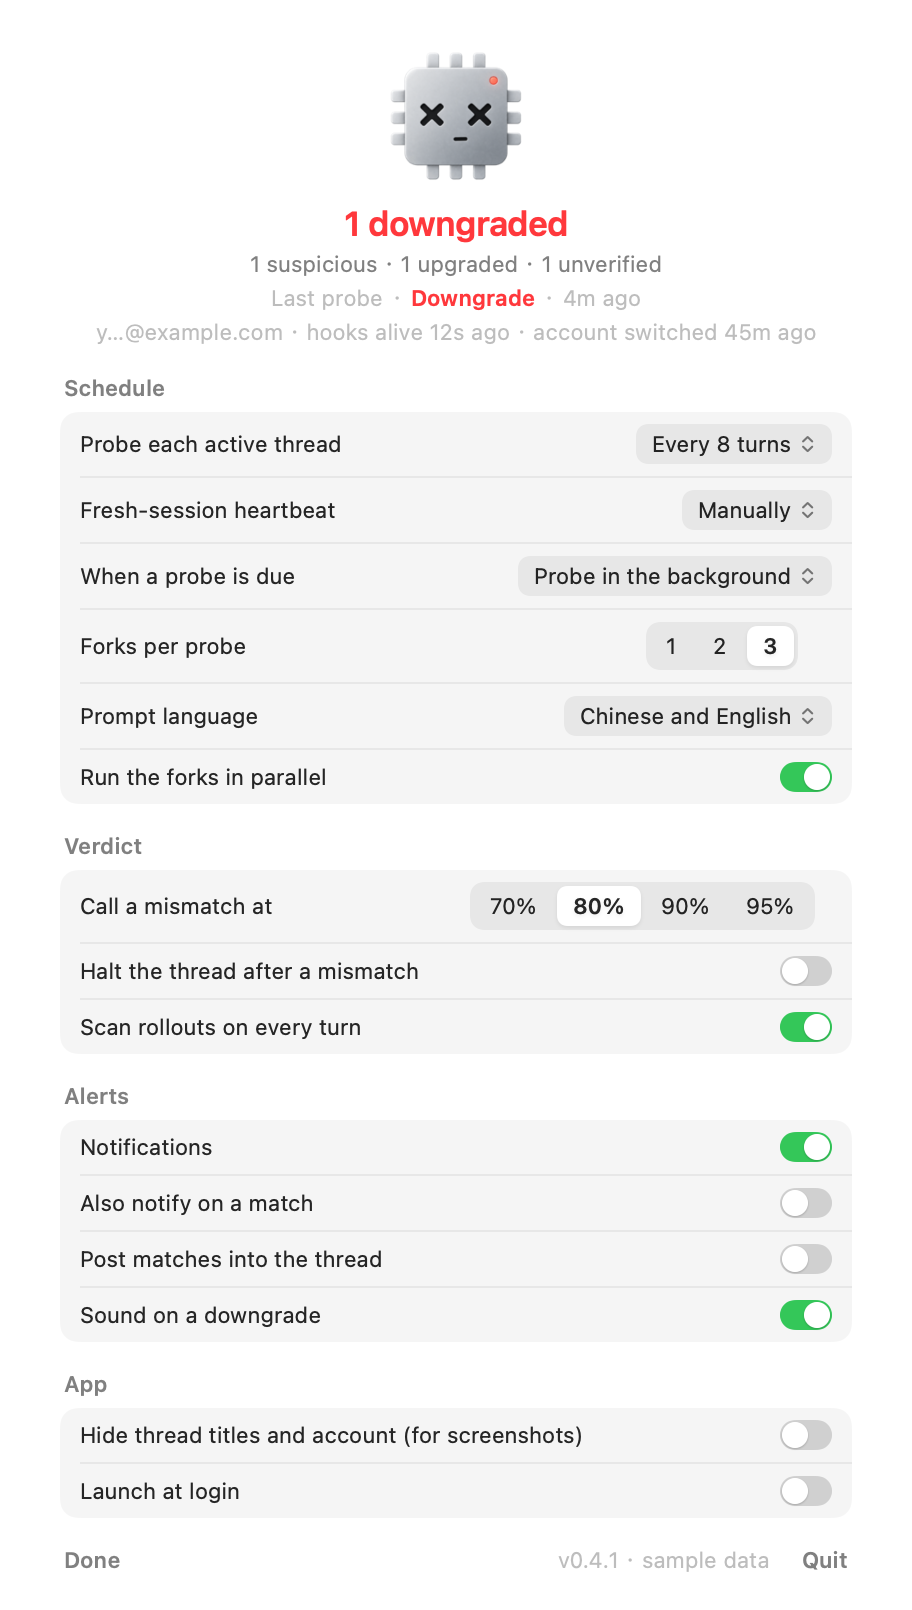
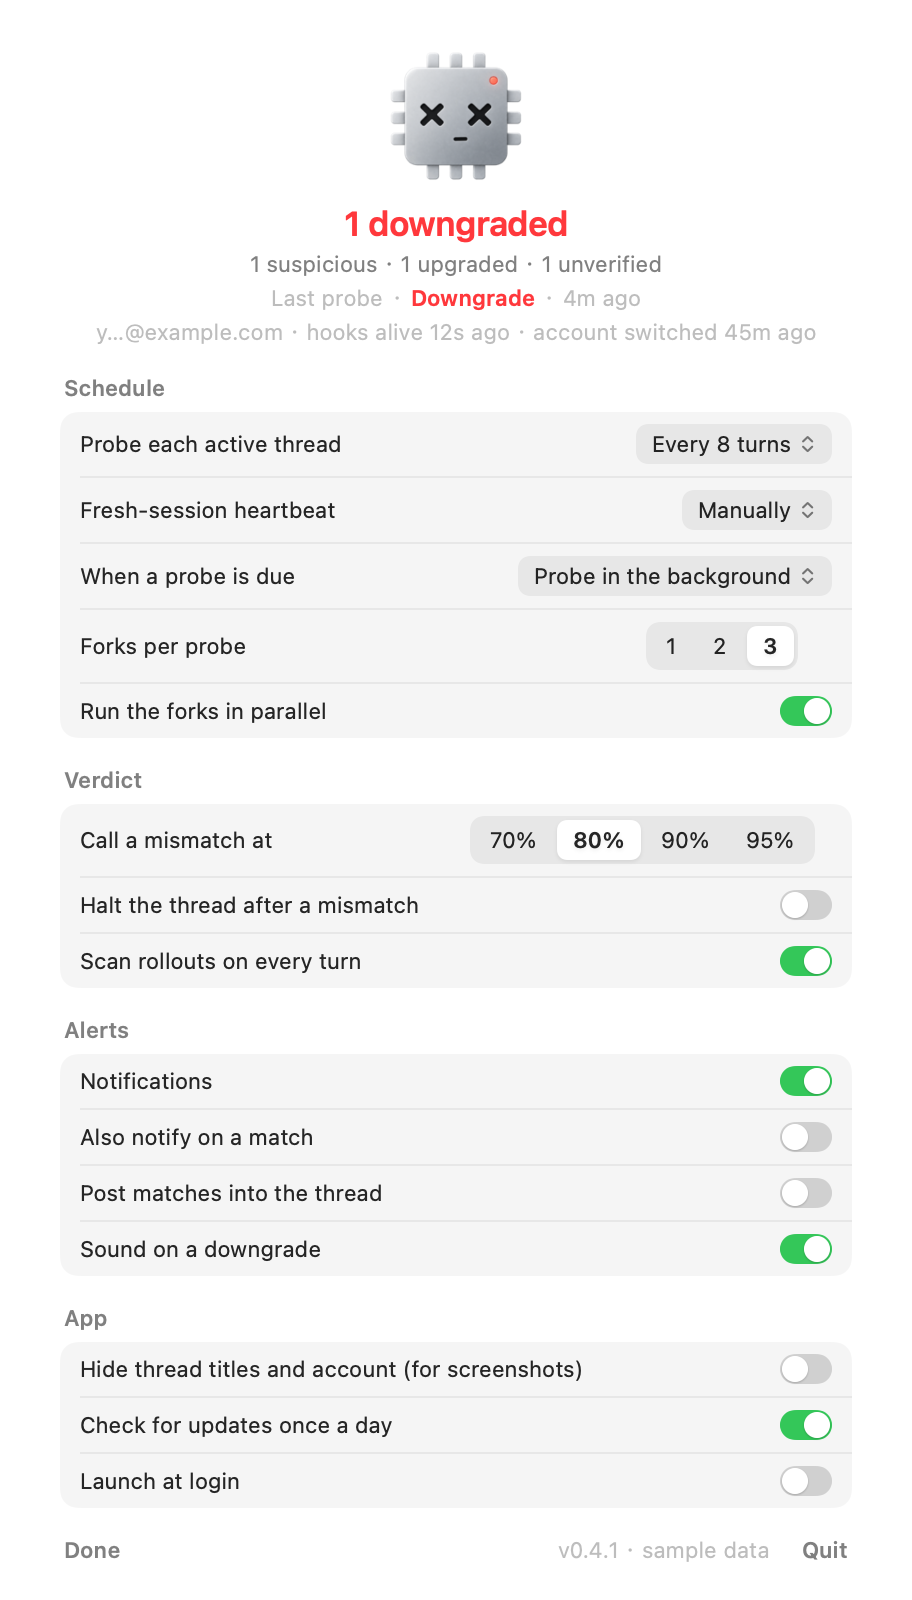
Daily release check with a footer link and one notification; Copy report moves to the context menu; no language row
- Update check: once a day the app asks GitHub for the latest release tag (nerfed update-check, a single request, off with check_updates) and the footer shows "vX.Y.Z is out · update" that opens the release page; one notification per new version. 404 while the repository is private is silent.
- Copy report sat in the middle of the row; it is now only in the row's right-click menu.
- Prompt language left Settings: the probes use ModelTrace's own zh and en task texts (verbatim, their default); other locales are unvalidated by the bank's author, so nothing to choose in the panel. The config key stays for the CLI.

diff --git a/macos/Sources/IsGPTNerfed/PanelView.swift b/macos/Sources/IsGPTNerfed/PanelView.swift
@@ -326,7 +326,7 @@ struct PanelView: View {
                             Text("Never probed · a new session, no thread context").font(Type.text).foregroundStyle(.secondary)
                         }
                     } report: {
-                        ReportLines(probes: history, evidence: [], failure: failure, reportText: snap?.globalReportText)
+                        ReportLines(probes: history, evidence: [], failure: failure)
                     }
                     Spacer(minLength: 8)
                     if !running {
@@ -349,7 +349,10 @@ struct PanelView: View {
         HStack(spacing: 16) {
             TextButton(title: showSettings ? "Done" : "Settings") { withAnimation(.snappy(duration: 0.25)) { showSettings.toggle() } }
             Spacer()
-            if let v = store.snapshot?.version {
+            if let u = store.snapshot?.update, u.available == true, let latest = u.latest {
+                TextButton(title: "v\(latest) is out · update", color: .primary) { store.openURL(u.url ?? "https://github.com/kiyoakii/is-gpt-nerfed/releases") }
+                    .help("A newer release is on GitHub. Download the zip and replace the app; the plugin inside updates with it.")
+            } else if let v = store.snapshot?.version {
                 Text("v\(v)" + (store.snapshot?.demo == true ? " · sample data" : "")).font(Type.text).foregroundStyle(.tertiary)
             }
             TextButton(title: "Quit") { NSApplication.shared.terminate(nil) }
@@ -396,13 +399,12 @@ struct SwapLines<Summary: View, Report: View>: View {
     }
 }
 
-/// The report: last verdict, fingerprint, earlier probes, evidence with what was reverted. Text only.
+/// The report: last verdict, fingerprint, earlier probes, evidence with what was reverted. Text only; Copy report is in the row's context menu.
 struct ReportLines: View {
     @Environment(Store.self) private var store
     let probes: [ProbeSummary]
     let evidence: [EvidenceInfo]
     var failure: ProbeSummary? = nil
-    let reportText: String?
 
     static func hasContent(probes: [ProbeSummary], evidence: [EvidenceInfo], failure: ProbeSummary? = nil) -> Bool {
         !probes.isEmpty || !evidence.isEmpty || failure != nil
@@ -442,12 +444,6 @@ struct ReportLines: View {
                 Text(e.text + (e.ago.map { " · \($0)" } ?? "") + (on ? "" : " · reverted"))
                     .foregroundStyle(on ? (e.severity == "hard" ? Color.red : (e.severity == "soft" ? Color.orange : Color.green)) : Color.secondary)
                     .lineLimit(2)
-            }
-            if let reportText {
-                HStack {
-                    Spacer()
-                    TextButton(title: "Copy report") { store.copy(reportText) }
-                }
             }
         }
         .font(Type.text)
@@ -535,7 +531,7 @@ struct ThreadRow: View {
                                 }
                             }
                         } report: {
-                            ReportLines(probes: history, evidence: thread.evidence ?? [], failure: thread.lastFailure, reportText: thread.reportText)
+                            ReportLines(probes: history, evidence: thread.evidence ?? [], failure: thread.lastFailure)
                         }
                     }
                 }

diff --git a/macos/Sources/IsGPTNerfed/SettingsView.swift b/macos/Sources/IsGPTNerfed/SettingsView.swift
@@ -13,7 +13,6 @@ struct SettingsView: View {
         ("manual", "Manually"), ("15m", "Every 15 minutes"), ("30m", "Every 30 minutes"), ("1h", "Every hour"), ("2h", "Every 2 hours"), ("6h", "Every 6 hours"),
     ]
     private let modes: [(String, String)] = [("auto", "Probe in the background"), ("nudge", "Only remind me")]
-    private let languages: [(String, String)] = [("zh,en", "Chinese and English"), ("zh", "Chinese"), ("en", "English")]
     private let confidences: [(Double, String)] = [(0.7, "70%"), (0.8, "80%"), (0.9, "90%"), (0.95, "95%")]
 
     var body: some View {
@@ -30,8 +29,6 @@ struct SettingsView: View {
                     segments(["1", "2", "3"], selected: String(cfg?.queries ?? 3)) { v in Task { await store.setConfig("queries", v) } }
                         .frame(width: 110)
                 }
-                RowSeparator()
-                row("Prompt language") { picker((cfg?.languages ?? ["zh", "en"]).joined(separator: ","), languages, key: "languages") }
                 RowSeparator()
                 row("Run the forks in parallel") { toggle("parallel", cfg?.parallel ?? true) }
             }
@@ -58,6 +55,8 @@ struct SettingsView: View {
             }
             Group(title: "App") {
                 row("Hide thread titles and account (for screenshots)") { toggle("hide_titles", cfg?.hideTitles ?? false) }
+                RowSeparator()
+                row("Check for updates once a day") { toggle("check_updates", cfg?.checkUpdates ?? true) }
                 RowSeparator()
                 row("Launch at login") {
                     if plain {

diff --git a/macos/Sources/IsGPTNerfed/Models.swift b/macos/Sources/IsGPTNerfed/Models.swift
@@ -11,6 +11,7 @@ struct Snapshot: Codable {
     var hooksLastEventAgo: String?
     var hooks: HooksInfo?
     var install: InstallInfo?
+    var update: UpdateInfo?
     var freshDue: Bool?
     var overall: Overall
     var defaultModel: String?
@@ -35,6 +36,17 @@ struct AccountInfo: Codable {
     var switchedAt: String?
     var switchedAgo: String?
     var previousLabel: String?
+}
+
+/// The daily release check (one request to GitHub for the latest tag; `nerfed update-check`).
+struct UpdateInfo: Codable {
+    var current: String?
+    var latest: String?
+    var available: Bool?
+    var url: String?
+    var checkedAgo: String?
+    var error: String?
+    var enabled: Bool?
 }
 
 /// Whether the plugin (bundled in this app or from a checkout) is registered with Codex.
@@ -88,6 +100,7 @@ struct DGCConfig: Codable {
     var confirmUncertain: Bool?
     var hideTitles: Bool?
     var freshFrequency: String?
+    var checkUpdates: Bool?
 }
 
 struct ThreadInfo: Codable, Identifiable {

diff --git a/macos/Sources/IsGPTNerfed/Store.swift b/macos/Sources/IsGPTNerfed/Store.swift
@@ -183,6 +183,10 @@ final class Store {
         appLog.notice("report copied to the clipboard")
     }
 
+    func openURL(_ s: String) {
+        if let u = URL(string: s) { NSWorkspace.shared.open(u) }
+    }
+
     func reveal(_ path: String) {
         NSWorkspace.shared.selectFile(nil, inFileViewerRootedAtPath: path)
     }

diff --git a/tests/test_dgc.py b/tests/test_dgc.py
@@ -15,6 +15,7 @@ from unittest import mock
 ROOT = os.path.dirname(os.path.dirname(os.path.abspath(__file__)))
 TMP = tempfile.mkdtemp(prefix="dgc-test-")
 os.environ["NERFED_HOME"] = os.path.join(TMP, "ledger")
+os.environ["NERFED_NO_UPDATE_CHECK"] = "1"  # tests never touch the network
 os.environ["CODEX_HOME"] = os.path.join(TMP, "codex-home")
 os.makedirs(os.environ["CODEX_HOME"], exist_ok=True)
 for var in ("CODEX_THREAD_ID", "CODEX_SESSION_ID", "CODEX_SANDBOX_NETWORK_DISABLED", "NERFED_PROBE_PROCESS"):
@@ -641,6 +642,23 @@ class SnapshotReportTests(unittest.TestCase):
         self.assertEqual(after, before, "the SessionStart hook must not crash")
         events = [e for e in dgc.iter_jsonl(os.path.join(dgc.NERFED_HOME, "log.jsonl")) if e.get("kind") == "session_start"]
         self.assertTrue(events and events[-1].get("sid") == "start-thread-1" and events[-1].get("session_kind") == "main")
+
+    def test_update_check_status_and_versions(self):
+        self.assertEqual(dgc.version_tuple("v0.4.2"), (0, 4, 2))
+        self.assertGreater(dgc.version_tuple("0.10.0"), dgc.version_tuple("0.9.9"))
+        self.assertEqual(dgc.version_tuple(None), (0,))
+        dgc.write_json(dgc.UPDATE_PATH, {"checked": dgc.iso(), "latest": "99.0.0", "url": "https://example.test/rel", "error": None})
+        u = dgc.update_status({"check_updates": True})
+        self.assertTrue(u["available"])
+        self.assertEqual((u["latest"], u["url"], u["current"]), ("99.0.0", "https://example.test/rel", dgc.VERSION))
+        dgc.write_json(dgc.UPDATE_PATH, {"checked": dgc.iso(), "latest": dgc.VERSION, "error": "HTTP 404"})
+        u = dgc.update_status({"check_updates": False})
+        self.assertFalse(u["available"])
+        self.assertFalse(u["enabled"])
+        snap = json.loads(run_cli(["snapshot", "--json"])[1])
+        self.assertIn("update", snap)
+        self.assertFalse(snap["update"]["available"])
+        os.remove(dgc.UPDATE_PATH)
 
     def test_upgrade_shows_as_good_news(self):
         snap = json.loads(run_cli(["snapshot", "--json", "--demo"])[1])

diff --git a/README.md b/README.md
@@ -52,7 +52,8 @@ Match is silent.
 
 **App, macOS 26.** Download the zip from [Releases](https://github.com/kiyoakii/is-gpt-nerfed/releases), move
 IsGPTNerfed to Applications, open it (right-click → Open the first time), click the face in the menu bar, press
-**Install**. That registers the bundled plugin with Codex and trusts its hooks. Done.
+**Install**. That registers the bundled plugin with Codex and trusts its hooks. Done. When a newer release is out,
+the panel's footer says so and a notification arrives once; download the new zip and replace the app.
 
 **Without the app, any macOS.**
 
@@ -102,8 +103,9 @@ probed again.
 ## Privacy
 
 Reads `~/.codex` (thread records, models cache; `auth.json` only for an account hash and a masked e-mail). Writes
-`~/.codex/is-gpt-nerfed` (probes, verdicts, `log.jsonl`). Makes no network requests of its own; the forks are
-ordinary Codex inference under your account.
+`~/.codex/is-gpt-nerfed` (probes, verdicts, `log.jsonl`). The forks are ordinary Codex inference under your account.
+The only network request of its own is one a day to GitHub for the latest release tag; switch it off in Settings and
+it makes none.
 
 ## Credits
 

diff --git a/CHANGELOG.md b/CHANGELOG.md
@@ -7,6 +7,10 @@
   else moves. Right-click for Probe, Copy report, Reveal folder. Settings is a page of its own. Fresh session sits
   below the threads; the header is the chip face with one short line per fact; the panel is a little narrower.
   The Report window is gone (the report lives in the rows; `nerfed report` remains).
+- Update check: once a day the app asks GitHub for the latest release tag (one request; `check_updates` switches it
+  off) and shows "vX.Y.Z is out · update" in the footer, with one notification per new version.
+- Copy report moved to the row's right-click menu. The prompt-language row left Settings: the probes use
+  ModelTrace's own zh and en prompt texts, its default; `languages` stays as a config key.
 - Upgraded: a move to a better model (a rollout such as gpt-5.6-sol → gpt-6-sol) is a state of its own, shown in green
   and notified, from the passive scanner or the fingerprint. Better or worse is decided by `compare_models`, not a
   fixed list: Codex's catalog succession pointer, hidden internal models, the generation and size tier in the slug,

diff --git a/docs/DEVELOPMENT.md b/docs/DEVELOPMENT.md
@@ -111,6 +111,11 @@ The app also logs to the unified log (Console.app, subsystem `is-gpt-nerfed`).
 
 ## Release
 
+Tag releases `vX.Y.Z` and attach the zip: the app asks GitHub once a day for the latest release tag
+(`nerfed update-check`, result in `~/.codex/is-gpt-nerfed/update.json`, `check_updates` to switch it off) and shows
+"vX.Y.Z is out · update" in the footer, with one notification per new version. While the repository is private the
+check gets a 404 and stays silent.
+
 ```bash
 ./macos/build.sh --zip                      # dist/IsGPTNerfed-<version>.zip + .sha256
 gh release create v<version> dist/*.zip dist/*.sha256 --prerelease
